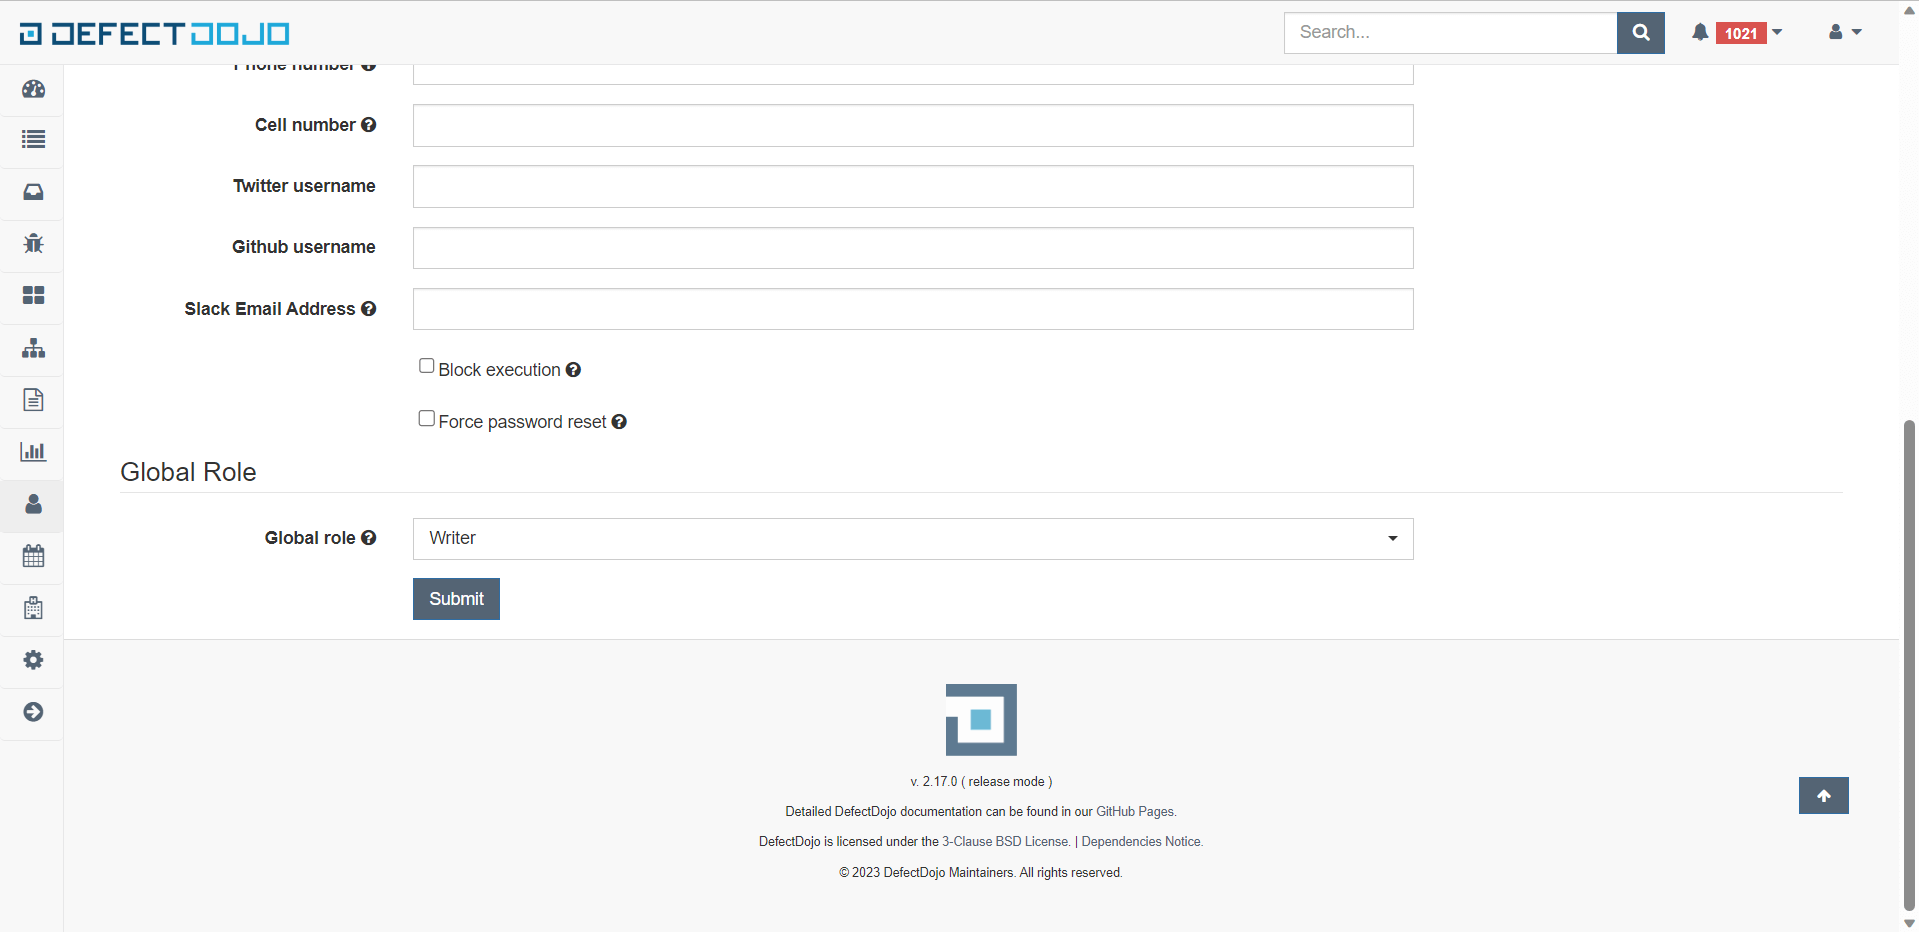
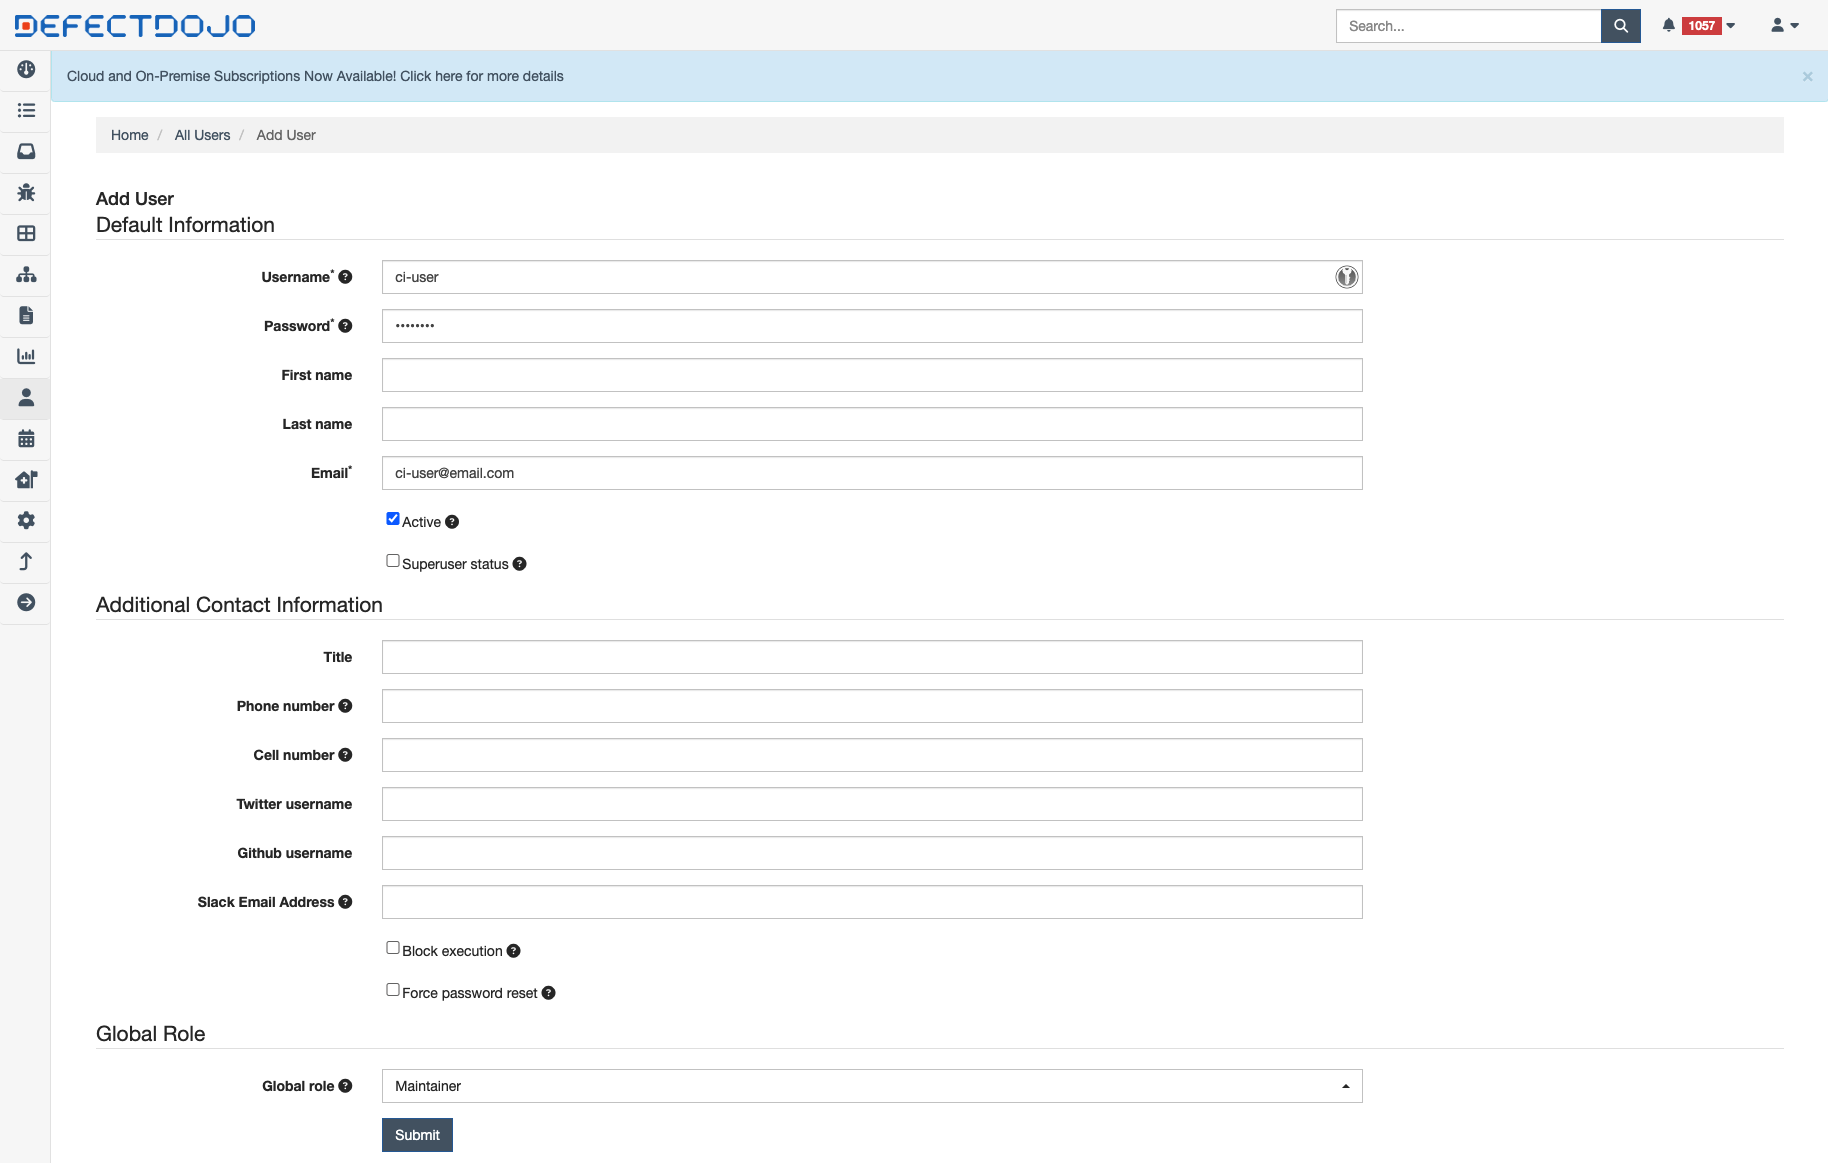
docs: Align DefectDojo integration guide

diff --git a/docs/operator-guide/devsecops/defectdojo.md b/docs/operator-guide/devsecops/defectdojo.md
@@ -25,7 +25,25 @@ Inspect the main steps to perform for installing DefectDojo via Helm Chart.
   and [Deploy DefectDojo into the Kubernetes cluster](https://github.com/DefectDojo/django-DefectDojo/blob/dev/readme-docs/KUBERNETES.md) sections for details.
 :::
 
-To install DefectDojo, follow the steps below:
+## Installation DefectDojo Cluster Add-On Approach
+
+To install DefectDojo in environment, it's recommended to use the resources provided in the [Cluster Add-Ons](https://github.com/epam/edp-cluster-add-ons) repository. Leveraging the Cluster Add-Ons simplifies the deployment and management process, providing a streamlined method to integrate DefectDojo into infrastructure.
+
+1. Navigate to the forked cluster Add-Ons repository and align the [defectdojo values.yaml](https://github.com/epam/edp-cluster-add-ons/tree/main/clusters/core/addons/defectdojo/values.yaml) file. Follow the instructions to deploy DefectDojo.
+
+2. Update the configuration to enable **DefectDojo** in [Add-Ons](https://github.com/epam/edp-cluster-add-ons/blob/main/clusters/core/apps/values.yaml) repository:
+
+    ```yaml title="clusters/core/apps/values.yaml"
+    defectdojo:
+      createNamespace: true
+      enable: true
+    ```
+
+3. Sync resources and wait till the all **DefectDojo** resources is created:
+
+    ![DefectDojo ArgoCD applications](../../assets/operator-guide/devsecops/defectdojo-addons-deploy.png "DefectDojo ArgoCD applications")
+
+## Installation DefectDojo Helm Chart Approach
 
 1. Check that a security namespace is created. If not, run the following command to create it:
 
@@ -212,13 +230,13 @@ To install DefectDojo, follow the steps below:
 
     </details>
 
-## Configuration
+## Configuration DefectDojo ci-user
 
 To prepare DefectDojo for integration with KubeRocketCI, follow the steps below:
 
 1. Create ci user in DefectDojo UI:
 
-    * Login to DefectDojo UI using admin credentials:
+    * Login to DefectDojo UI using `admin` credentials:
 
       ```bash
       echo "DefectDojo admin password: $(kubectl \
@@ -230,7 +248,7 @@ To prepare DefectDojo for integration with KubeRocketCI, follow the steps below:
 
     * Go to User section
 
-    * Create new user with write permission:
+    * Create new user Global role `Maintainer` permission:
 
       ![DefectDojo update manual secret](../../assets/operator-guide/devsecops/defectdojo-createuser.png "DefectDojo set user permission")
 
@@ -238,16 +256,20 @@ To prepare DefectDojo for integration with KubeRocketCI, follow the steps below:
 
     * Login to the DefectDojo UI using the credentials from previous steps.
 
-    * Go to the API v2 key (token).
+    * Click on profile button select the `API v2 key`.
 
     * Copy the API key.
 
-3. Provision the secret using `Portal UI`, `Manifest` or with the `externalSecrets` operator:
+      ![DefectDojo api key](../../assets/operator-guide/devsecops/defectdojo-api-key.png "DefectDojo api-key")
+
+## Integration DefectDojo with KubeRocketCI
+
+Provision the secret using `Portal UI`, `Manifest` or with the `externalSecrets` operator:
 
     <Tabs
       defaultValue="portal"
       values={[
-        {label: 'UI Portal', value: 'portal'},
+        {label: 'Portal UI', value: 'portal'},
         {label: 'Manifest', value: 'manifest'},
         {label: 'External Secrets Operator', value: 'eso'}
       ]}>

diff --git a/versioned_docs/version-3.10/operator-guide/devsecops/defectdojo.md b/versioned_docs/version-3.10/operator-guide/devsecops/defectdojo.md
@@ -25,7 +25,25 @@ Inspect the main steps to perform for installing DefectDojo via Helm Chart.
   and [Deploy DefectDojo into the Kubernetes cluster](https://github.com/DefectDojo/django-DefectDojo/blob/dev/readme-docs/KUBERNETES.md) sections for details.
 :::
 
-To install DefectDojo, follow the steps below:
+## Installation DefectDojo Cluster Add-On Approach
+
+To install DefectDojo in environment, it's recommended to use the resources provided in the [Cluster Add-Ons](https://github.com/epam/edp-cluster-add-ons) repository. Leveraging the Cluster Add-Ons simplifies the deployment and management process, providing a streamlined method to integrate DefectDojo into infrastructure.
+
+1. Navigate to the forked cluster Add-Ons repository and align the [defectdojo values.yaml](https://github.com/epam/edp-cluster-add-ons/tree/main/clusters/core/addons/defectdojo/values.yaml) file. Follow the instructions to deploy DefectDojo.
+
+2. Update the configuration to enable **DefectDojo** in [Add-Ons](https://github.com/epam/edp-cluster-add-ons/blob/main/clusters/core/apps/values.yaml) repository:
+
+    ```yaml title="clusters/core/apps/values.yaml"
+    defectdojo:
+      createNamespace: true
+      enable: true
+    ```
+
+3. Sync resources and wait till the all **DefectDojo** resources is created:
+
+    ![DefectDojo ArgoCD applications](../../assets/operator-guide/devsecops/defectdojo-addons-deploy.png "DefectDojo ArgoCD applications")
+
+## Installation DefectDojo Helm Chart Approach
 
 1. Check that a security namespace is created. If not, run the following command to create it:
 
@@ -212,13 +230,13 @@ To install DefectDojo, follow the steps below:
 
     </details>
 
-## Configuration
+## Configuration DefectDojo ci-user
 
 To prepare DefectDojo for integration with KubeRocketCI, follow the steps below:
 
 1. Create ci user in DefectDojo UI:
 
-    * Login to DefectDojo UI using admin credentials:
+    * Login to DefectDojo UI using `admin` credentials:
 
       ```bash
       echo "DefectDojo admin password: $(kubectl \
@@ -230,7 +248,7 @@ To prepare DefectDojo for integration with KubeRocketCI, follow the steps below:
 
     * Go to User section
 
-    * Create new user with write permission:
+    * Create new user Global role `Maintainer` permission:
 
       ![DefectDojo update manual secret](../../assets/operator-guide/devsecops/defectdojo-createuser.png "DefectDojo set user permission")
 
@@ -238,16 +256,20 @@ To prepare DefectDojo for integration with KubeRocketCI, follow the steps below:
 
     * Login to the DefectDojo UI using the credentials from previous steps.
 
-    * Go to the API v2 key (token).
+    * Click on profile button select the `API v2 key`.
 
     * Copy the API key.
 
-3. Provision the secret using `Portal UI`, `Manifest` or with the `externalSecrets` operator:
+      ![DefectDojo api key](../../assets/operator-guide/devsecops/defectdojo-api-key.png "DefectDojo api-key")
+
+## Integration DefectDojo with KubeRocketCI
+
+Provision the secret using `Portal UI`, `Manifest` or with the `externalSecrets` operator:
 
     <Tabs
       defaultValue="portal"
       values={[
-        {label: 'UI Portal', value: 'portal'},
+        {label: 'Portal UI', value: 'portal'},
         {label: 'Manifest', value: 'manifest'},
         {label: 'External Secrets Operator', value: 'eso'}
       ]}>

diff --git a/versioned_docs/version-3.9/operator-guide/devsecops/defectdojo.md b/versioned_docs/version-3.9/operator-guide/devsecops/defectdojo.md
@@ -25,7 +25,25 @@ Inspect the main steps to perform for installing DefectDojo via Helm Chart.
   and [Deploy DefectDojo into the Kubernetes cluster](https://github.com/DefectDojo/django-DefectDojo/blob/dev/readme-docs/KUBERNETES.md) sections for details.
 :::
 
-To install DefectDojo, follow the steps below:
+## Installation DefectDojo Cluster Add-On Approach
+
+To install DefectDojo in environment, it's recommended to use the resources provided in the [Cluster Add-Ons](https://github.com/epam/edp-cluster-add-ons) repository. Leveraging the Cluster Add-Ons simplifies the deployment and management process, providing a streamlined method to integrate DefectDojo into infrastructure.
+
+1. Navigate to the forked cluster Add-Ons repository and align the [defectdojo values.yaml](https://github.com/epam/edp-cluster-add-ons/tree/main/clusters/core/addons/defectdojo/values.yaml) file. Follow the instructions to deploy DefectDojo.
+
+2. Update the configuration to enable **DefectDojo** in [Add-Ons](https://github.com/epam/edp-cluster-add-ons/blob/main/clusters/core/apps/values.yaml) repository:
+
+    ```yaml title="clusters/core/apps/values.yaml"
+    defectdojo:
+      createNamespace: true
+      enable: true
+    ```
+
+3. Sync resources and wait till the all **DefectDojo** resources is created:
+
+    ![DefectDojo ArgoCD applications](../../assets/operator-guide/devsecops/defectdojo-addons-deploy.png "DefectDojo ArgoCD applications")
+
+## Installation DefectDojo Helm Chart Approach
 
 1. Check that a security namespace is created. If not, run the following command to create it:
 
@@ -212,13 +230,13 @@ To install DefectDojo, follow the steps below:
 
     </details>
 
-## Configuration
+## Configuration DefectDojo ci-user
 
 To prepare DefectDojo for integration with KubeRocketCI, follow the steps below:
 
 1. Create ci user in DefectDojo UI:
 
-    * Login to DefectDojo UI using admin credentials:
+    * Login to DefectDojo UI using `admin` credentials:
 
       ```bash
       echo "DefectDojo admin password: $(kubectl \
@@ -230,7 +248,7 @@ To prepare DefectDojo for integration with KubeRocketCI, follow the steps below:
 
     * Go to User section
 
-    * Create new user with write permission:
+    * Create new user Global role `Maintainer` permission:
 
       ![DefectDojo update manual secret](../../assets/operator-guide/devsecops/defectdojo-createuser.png "DefectDojo set user permission")
 
@@ -238,16 +256,20 @@ To prepare DefectDojo for integration with KubeRocketCI, follow the steps below:
 
     * Login to the DefectDojo UI using the credentials from previous steps.
 
-    * Go to the API v2 key (token).
+    * Click on profile button select the `API v2 key`.
 
     * Copy the API key.
 
-3. Provision the secret using `Portal UI`, `Manifest` or with the `externalSecrets` operator:
+      ![DefectDojo api key](../../assets/operator-guide/devsecops/defectdojo-api-key.png "DefectDojo api-key")
+
+## Integration DefectDojo with KubeRocketCI
+
+Provision the secret using `Portal UI`, `Manifest` or with the `externalSecrets` operator:
 
     <Tabs
       defaultValue="portal"
       values={[
-        {label: 'UI Portal', value: 'portal'},
+        {label: 'Portal UI', value: 'portal'},
         {label: 'Manifest', value: 'manifest'},
         {label: 'External Secrets Operator', value: 'eso'}
       ]}>
